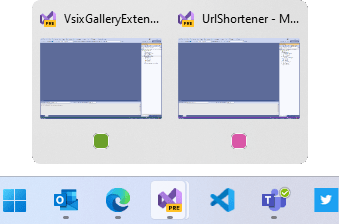
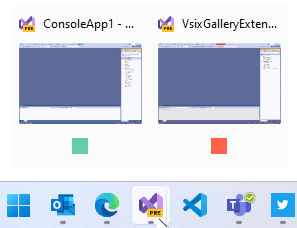
Variuos fixes

diff --git a/src/ColorHelper.cs b/src/ColorHelper.cs
@@ -4,13 +4,9 @@ using System.Threading.Tasks;
 using System.Windows;
 using System.Windows.Controls;
 using System.Windows.Media;
-using System.Windows.Media.Imaging;
 using System.Windows.Shell;
-using Microsoft.VisualStudio.Imaging.Interop;
 using Microsoft.VisualStudio.PlatformUI;
 using Microsoft.VisualStudio.Telemetry;
-using Microsoft.VisualStudio.Threading;
-using Brushes = System.Windows.Media.Brushes;
 
 namespace SolutionColors
 {
@@ -134,62 +130,55 @@ namespace SolutionColors
             return Path.Combine(vsDir, "color.txt");
         }
 
-        private static async Task SetBorderColorAsync(SolidColorBrush color, string colorName = null)
+        private static async Task SetBorderColorAsync(SolidColorBrush brush, string colorName = null)
         {
             await ThreadHelper.JoinableTaskFactory.SwitchToMainThreadAsync();
-            General options = await General.GetLiveInstanceAsync();
 
-            if (color == null)
+            if (brush == null)
             {
                 await RemoveUIAsync();
             }
             else
             {
+                General options = await General.GetLiveInstanceAsync();
+                
                 if (options.ShowBorder)
                 {
-                    ShowInBorder(color, options);
+                    ShowInBorder(brush, options);
                 }
 
                 if (options.ShowTitleBar)
                 {
-                    ShowInTitleBar(color);
+                    ShowInTitleBar(brush);
                 }
 
                 if (options.ShowTaskBarThumbnails || options.ShowTaskBarOverlay)
                 {
-                    await ShowInTaskBarAsync(colorName, options);
+                    ShowInTaskBar(brush, options);
                 }
 
                 TelemetryEvent tel = Telemetry.CreateEvent("ColorApplied");
-                tel.Properties.Add("Color", colorName);
-                tel.Properties.Add(nameof(options.ShowBorder), options.ShowBorder);
-                tel.Properties.Add(nameof(options.ShowTaskBarOverlay), options.ShowTaskBarOverlay);
-                tel.Properties.Add(nameof(options.ShowTaskBarThumbnails), options.ShowTaskBarThumbnails);
-                tel.Properties.Add(nameof(options.ShowTitleBar), options.ShowTitleBar);
+                tel.Properties["Color"] = colorName;
+                tel.Properties[nameof(options.ShowBorder)] = options.ShowBorder;
+                tel.Properties[nameof(options.ShowTaskBarOverlay)] = options.ShowTaskBarOverlay;
+                tel.Properties[nameof(options.ShowTaskBarThumbnails)] = options.ShowTaskBarThumbnails;
+                tel.Properties[nameof(options.ShowTitleBar)] = options.ShowTitleBar;
                 Telemetry.TrackEvent(tel);
             }
         }
 
-        private static async Task ShowInTaskBarAsync(string colorName, General options)
+        private static void ShowInTaskBar(Brush brush, General options)
         {
-            int index = ColorCache.GetIndex(colorName);
+            ResetTaskbar();
 
-            if (index > -1)
+            if (options.ShowTaskBarThumbnails)
             {
-                ImageMoniker moniker = new() { Guid = new Guid("A1FA08E5-519B-4810-BDB0-89F586AF37E9"), Id = index + 1 };
-                ResetTaskbar();
+                Application.Current.MainWindow.TaskbarItemInfo.ThumbButtonInfos.Add(new ThumbButtonInfo() { ImageSource = brush.GetImageSource(16), IsBackgroundVisible = false, IsInteractive = false });
+            }
 
-                AsyncLazy<BitmapSource> bitmap = new(() => moniker.ToBitmapSourceAsync(16), ThreadHelper.JoinableTaskFactory);
-
-                if (options.ShowTaskBarThumbnails)
-                {
-                    Application.Current.MainWindow.TaskbarItemInfo.ThumbButtonInfos.Add(new ThumbButtonInfo() { ImageSource = await bitmap.GetValueAsync(), IsBackgroundVisible = false, IsInteractive = false });
-                }
-
-                if (options.ShowTaskBarOverlay)
-                {
-                    Application.Current.MainWindow.TaskbarItemInfo.Overlay = await bitmap.GetValueAsync();
-                }
+            if (options.ShowTaskBarOverlay)
+            {
+                Application.Current.MainWindow.TaskbarItemInfo.Overlay = brush.GetImageSource(12);
             }
         }
 
@@ -197,7 +186,7 @@ namespace SolutionColors
         {
             BorderLocation location = options.Location;
             string controlName = GetControlName(location);
-            _border = FindChild(Application.Current.MainWindow, controlName) as Border;
+            _border = Application.Current.MainWindow.FindChild<Border>(controlName);
 
             _border.BorderBrush = color;
 
@@ -215,8 +204,8 @@ namespace SolutionColors
         {
             if (_solutionLabel == null)
             {
-                _solutionLabel = FindChild(Application.Current.MainWindow, "TextBorder") as Border;
-                _originalLabelColor = _solutionLabel.Background;
+                _solutionLabel = Application.Current.MainWindow.FindChild<Border>("TextBorder");
+                _originalLabelColor = _solutionLabel?.Background;
             }
 
             if (_solutionLabel != null)
@@ -247,39 +236,5 @@ namespace SolutionColors
             BorderLocation.Right => "RightDockBorder",
             _ => "BottomDockBorder",
         };
-
-        private static DependencyObject FindChild(DependencyObject parent, string childName)
-        {
-            if (parent == null)
-            {
-                return null;
-            }
-
-            int childrenCount = VisualTreeHelper.GetChildrenCount(parent);
-
-            for (int i = 0; i < childrenCount; i++)
-            {
-                DependencyObject child = VisualTreeHelper.GetChild(parent, i);
-
-                if (child is FrameworkElement frameworkElement && frameworkElement.Name == childName)
-                {
-                    return frameworkElement;
-                }
-            }
-
-            for (int i = 0; i < childrenCount; i++)
-            {
-                DependencyObject child = VisualTreeHelper.GetChild(parent, i);
-
-                child = FindChild(child, childName);
-
-                if (child != null)
-                {
-                    return child;
-                }
-            }
-
-            return null;
-        }
     }
 }

diff --git a/src/Telemetry.cs b/src/Telemetry.cs
@@ -21,20 +21,20 @@ namespace SolutionColors
             TelemetryService.DefaultSession.PostUserTask(CleanName(name), result);
         }
 
-        public static void TrackOperation(string name, string details = "", TelemetryResult result = TelemetryResult.Success)
-        {
-            TelemetryService.DefaultSession.PostOperation(CleanName(name), result, details);
-        }
+        //public static void TrackOperation(string name, string details = "", TelemetryResult result = TelemetryResult.Success)
+        //{
+        //    TelemetryService.DefaultSession.PostOperation(CleanName(name), result, details);
+        //}
 
-        public static void TrackException(string name, Exception exception)
-        {
-            if (string.IsNullOrWhiteSpace(name) || exception == null)
-            {
-                return;
-            }
+        //public static void TrackException(string name, Exception exception)
+        //{
+        //    if (string.IsNullOrWhiteSpace(name) || exception == null)
+        //    {
+        //        return;
+        //    }
 
-            TelemetryService.DefaultSession.PostFault(CleanName(name), exception.Message, exception);
-        }
+        //    TelemetryService.DefaultSession.PostFault(CleanName(name), exception.Message, exception);
+        //}
 
         private static string CleanName(string name)
         {

diff --git a/src/ExtensionMethods/WpfExtensions.cs b/src/ExtensionMethods/WpfExtensions.cs
@@ -1,0 +1,42 @@
+using System.Windows;
+using System.Windows.Media;
+
+namespace SolutionColors
+{
+    public static class WpfExtensions
+    {
+        public static T FindChild<T>(this DependencyObject parent, string childName) where T : DependencyObject
+        {
+            if (parent == null)
+            {
+                return null;
+            }
+
+            int childrenCount = VisualTreeHelper.GetChildrenCount(parent);
+
+            for (int i = 0; i < childrenCount; i++)
+            {
+                DependencyObject child = VisualTreeHelper.GetChild(parent, i);
+
+                if (child is FrameworkElement frameworkElement && frameworkElement.Name == childName)
+                {
+                    return frameworkElement as T;
+                }
+            }
+
+            for (int i = 0; i < childrenCount; i++)
+            {
+                DependencyObject child = VisualTreeHelper.GetChild(parent, i);
+
+                child = FindChild<T>(child, childName);
+
+                if (child != null)
+                {
+                    return child as T;
+                }
+            }
+
+            return null;
+        }
+    }
+}

diff --git a/src/Commands/SetColorCommandSolution.cs b/src/Commands/SetColorCommandSolution.cs
@@ -41,6 +41,7 @@ namespace SolutionColors
                 Command.Visible = Command.Enabled = SetColorCommandFolder.IsRoot;
             }
 
+#pragma warning disable VSTHRD102 // Implement internal logic asynchronously
             Package.JoinableTaskFactory.Run(async () =>
             {
                 if (await ColorHelper.SolutionHasCustomColorAsync())
@@ -51,7 +52,8 @@ namespace SolutionColors
                 {
                     Command.Text = General.Instance.AutoMode ? "Disable Auto-Mode" : "Enable Auto-Mode";
                 }
-            });            
+            });
+#pragma warning restore VSTHRD102 // Implement internal logic asynchronously
         }
 
         protected override async Task ExecuteAsync(OleMenuCmdEventArgs e)
@@ -96,7 +98,7 @@ namespace SolutionColors
             }
 
             TelemetryEvent tel = Telemetry.CreateEvent("ChangedColor");
-            tel.Properties.Add("Color", _color);
+            tel.Properties["Color"] = _color;
             Telemetry.TrackEvent(tel);
         }
     }

diff --git a/src/ExtensionMethods/BrushExtensions.cs b/src/ExtensionMethods/BrushExtensions.cs
@@ -1,0 +1,22 @@
+using System.Windows;
+using System.Windows.Media;
+using System.Windows.Media.Imaging;
+
+namespace SolutionColors
+{
+    public static class BrushExtensions
+    {
+        public static ImageSource GetImageSource(this Brush brush, int size)
+        {
+            DrawingVisual dVisual = new();
+            using (DrawingContext dc = dVisual.RenderOpen())
+            {
+                dc.DrawRectangle(brush, null, new Rect(0, 0, size, size));
+            }
+            RenderTargetBitmap targetBitmap = new(size, size, 96, 96, PixelFormats.Default);
+            targetBitmap.Render(dVisual);
+
+            return new WriteableBitmap(targetBitmap);
+        }
+    }
+}
